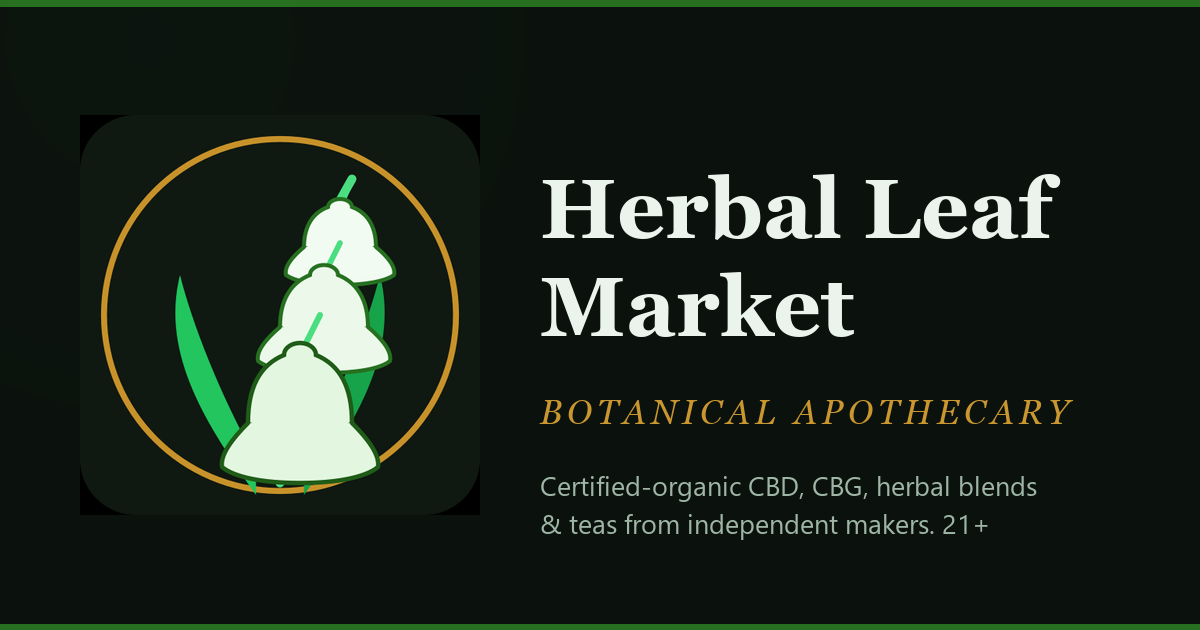
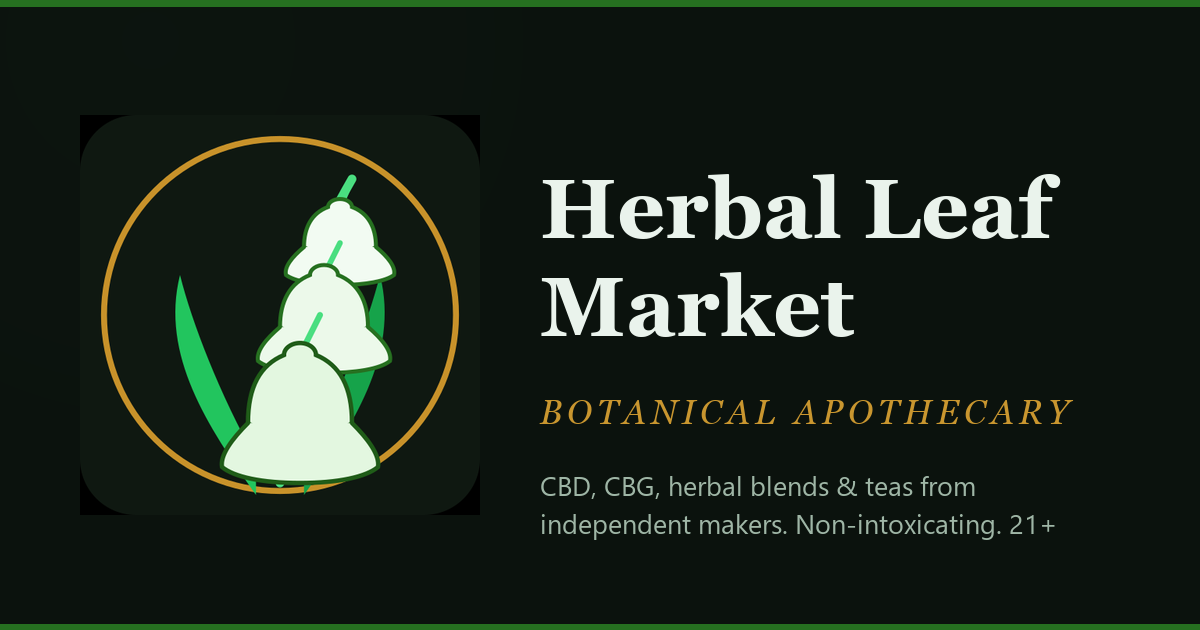
Remove "certified-organic" from every claim the site makes
The owner cannot vouch that every maker in the catalogue holds organic
certification, and the family's rule is that a claim we cannot evidence is a
bug of the worst class. The phrase is gone from all ten copy surfaces in
index.html (title, meta description, og:title/description,
twitter:title/description, the Organization JSON-LD, the sr-only h1, the
values strip, the footer blurb), from manifest.json, and from og-image.png,
where it was baked into the pixels; the card is regenerated with "CBD, CBG,
herbal blends & teas from independent makers. Non-intoxicating. 21+".

Deliberately untouched: eight NSS product URLs in products.js that contain
"certified-organic" in the vendor's own slugs. Those are addresses on the
maker's site, not our claims, and rewriting them would break the links. Where
a maker holds certification, their own product page says so on their own
authority, which is where that claim belongs.

Two small strays cleaned in the same pass: the values strip line no longer
asserts "organic herbs" ("plainly named, nothing dressed up"), and the
sr-only h1 loses its em dash (house copy rule) along with the claim.

Changed region(s): [[0.4317, 0.754, 0.8633, 0.8746]]

diff --git a/public/index.html b/public/index.html
@@ -3,7 +3,7 @@
 <head>
 <meta charset="UTF-8" />
 <meta name="viewport" content="width=device-width, initial-scale=1.0, viewport-fit=cover" />
-<title>Herbal Leaf Market - Certified-Organic CBD, CBG & Botanical Blends</title>
+<title>Herbal Leaf Market - CBD, CBG & Botanical Blends from Independent Makers</title>
 <link rel="icon" href="/favicon.ico" sizes="any" />
 <!-- SVG favicon: any modern browser prefers this over the PNGs below and gets a
      crisp mark at every size, including the 2x/3x tab densities the fixed PNGs
@@ -12,12 +12,12 @@
 <link rel="icon" type="image/svg+xml" href="/icon.svg" />
 <link rel="icon" type="image/png" sizes="32x32" href="/favicon-32x32.png" />
 <link rel="icon" type="image/png" sizes="16x16" href="/favicon-16x16.png" />
-<meta name="description" content="A neo-hippy boutique of certified-organic CBD, CBG, herbal blends, ceremonial elixirs, hand-rolled smokes, and single herbs. Live inventory from vetted makers. Tobacco-free, nicotine-free." />
+<meta name="description" content="A neo-hippy boutique of CBD, CBG, herbal blends, ceremonial elixirs, hand-rolled smokes, and single herbs. Live inventory from vetted makers. Tobacco-free, nicotine-free." />
 <link rel="canonical" href="https://herballeafmarket.com/" />
 <meta property="og:type" content="website" />
 <meta property="og:site_name" content="Herbal Leaf Market" />
-<meta property="og:title" content="Herbal Leaf Market - Certified-Organic CBD, CBG & Botanicals" />
-<meta property="og:description" content="Certified-organic CBD, CBG, herbal blends and botanicals - gathered live from vetted makers. Tobacco-free, nicotine-free." />
+<meta property="og:title" content="Herbal Leaf Market - CBD, CBG & Botanicals" />
+<meta property="og:description" content="CBD, CBG, herbal blends and botanicals - gathered live from vetted makers. Tobacco-free, nicotine-free." />
 <meta property="og:url" content="https://herballeafmarket.com/" />
 <meta property="og:image" content="https://herballeafmarket.com/og-image.png" />
 <meta property="og:image:width" content="1200" />
@@ -26,13 +26,13 @@
 <meta property="og:locale" content="en_US" />
 <meta name="twitter:card" content="summary_large_image" />
 <meta name="twitter:site" content="@herballeafmarket" />
-<meta name="twitter:title" content="Herbal Leaf Market - Certified-Organic CBD, CBG & Botanicals" />
-<meta name="twitter:description" content="Certified-organic CBD, CBG, herbal blends & botanicals, gathered live from vetted makers." />
+<meta name="twitter:title" content="Herbal Leaf Market - CBD, CBG & Botanicals" />
+<meta name="twitter:description" content="CBD, CBG, herbal blends & botanicals, gathered live from vetted makers." />
 <meta name="twitter:image" content="https://herballeafmarket.com/og-image.png" />
 <meta name="twitter:image:alt" content="Herbal Leaf Market, botanical apothecary: the lily-of-the-valley mark beside the wordmark" />
 <meta name="robots" content="index, follow, max-snippet:-1, max-image-preview:large, max-video-preview:-1" />
 <script type="application/ld+json">
-{"@context":"https://schema.org","@type":"Organization","name":"Herbal Leaf Market","slogan":"botanical apothecary","description":"A boutique aggregator of certified-organic, non-intoxicating CBD, CBG and botanical products from vetted makers, with education and advocacy on legal cannabinoid access.","url":"https://herballeafmarket.com","logo":"https://herballeafmarket.com/icon-512.png","sameAs":["https://legal-leafmarket.com","https://nicotiamarket.com"]}
+{"@context":"https://schema.org","@type":"Organization","name":"Herbal Leaf Market","slogan":"botanical apothecary","description":"A boutique aggregator of non-intoxicating CBD, CBG and botanical products from vetted makers, with education and advocacy on legal cannabinoid access.","url":"https://herballeafmarket.com","logo":"https://herballeafmarket.com/icon-512.png","sameAs":["https://legal-leafmarket.com","https://nicotiamarket.com"]}
 </script>
 <script id="hlmProductLd" type="application/ld+json"></script>
 <link rel="preconnect" href="https://fonts.googleapis.com">
@@ -396,7 +396,7 @@
 </style>
 </head>
 <body>
-<h1 class="sr-only">Herbal Leaf Market &mdash; Certified-Organic CBD, CBG &amp; Botanical Blends</h1>
+<h1 class="sr-only">Herbal Leaf Market: CBD, CBG &amp; Botanical Blends</h1>
 <svg width="0" height="0" style="position:absolute" aria-hidden="true">
   <symbol id="lilyIcon" viewBox="0 0 60 72">
     <!-- Two broad strap leaves rising from base -->
@@ -617,12 +617,12 @@
   <div class="values">
     <div><h4>Live, not stale</h4><p>Prices, stock, and new drops pull straight from each maker in real time.</p></div>
     <div><h4>Straight to the maker</h4><p>Every product links to the grower's own shop, so you always get authentic, fresh stock.</p></div>
-    <div><h4>Honest, earthy labeling</h4><p>We describe plants the way the makers do - organic herbs, plainly named.</p></div>
+    <div><h4>Honest, earthy labeling</h4><p>We describe plants the way the makers do - plainly named, nothing dressed up.</p></div>
   </div>
 </main>
 <footer><div class="wrap"><div class="cols">
   <div><div class="brand" style="margin-bottom:12px;display:flex;align-items:center;gap:12px"><svg class="lily" style="width:32px;height:38px"><use href="#lilyIcon"/></svg><span>Herbal Leaf Market<small>botanical apothecary</small></span></div>
-    <p style="max-width:470px;color:#c3bfa6">A bohemian boutique for certified-organic ceremonial blends, herbal elixirs, and hand-rolled smokes, with live inventory from vetted makers.</p>
+    <p style="max-width:470px;color:#c3bfa6">A bohemian boutique for ceremonial blends, herbal elixirs, and hand-rolled smokes, with live inventory from vetted makers.</p>
     <p style="max-width:470px;color:#c3bfa6;margin-top:10px"> Looking for a wider, more affordable CBD selection? Visit our sister shop <a href="https://legal-leafmarket.com" target="_blank" rel="noopener"><strong>Legal Leaf Market</strong> &nearr;</a></p>
     <p style="max-width:470px;color:#c3bfa6;margin-top:6px">For smokeless nicotine, our sister shop <a href="https://nicotiamarket.com" target="_blank" rel="noopener"><strong>Nicotia Market</strong> &nearr;</a> compares pouches and more by price.</p>
     <p class="aff-note"><strong>Affiliate disclosure:</strong> Herbal Leaf Market may earn a commission on qualifying purchases made through links on this site, at no extra cost to you.</p></div>
